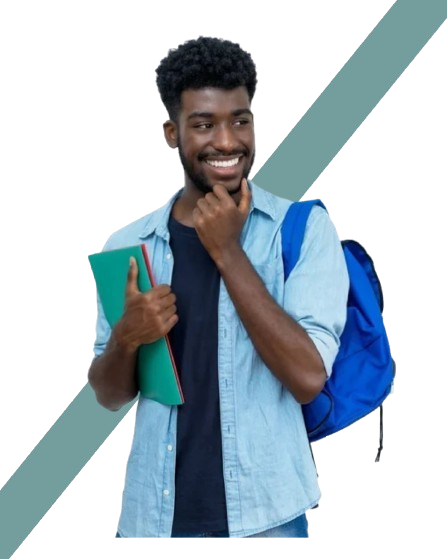
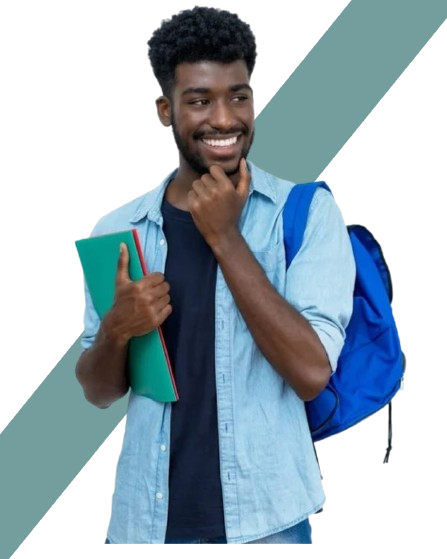
Reup image

Changed region(s): [[0.0, 0.0, 0.9306, 0.9732]]

diff --git a/LearnFy/Css/banner.css b/LearnFy/Css/banner.css
@@ -6,8 +6,9 @@
 }
 
 #imgBanner>img{
-    width: 70%;
-
+    width: 50%;
+    margin-top: 3%;
+    margin-left: 10%;
 }
 
 #banner>div{
